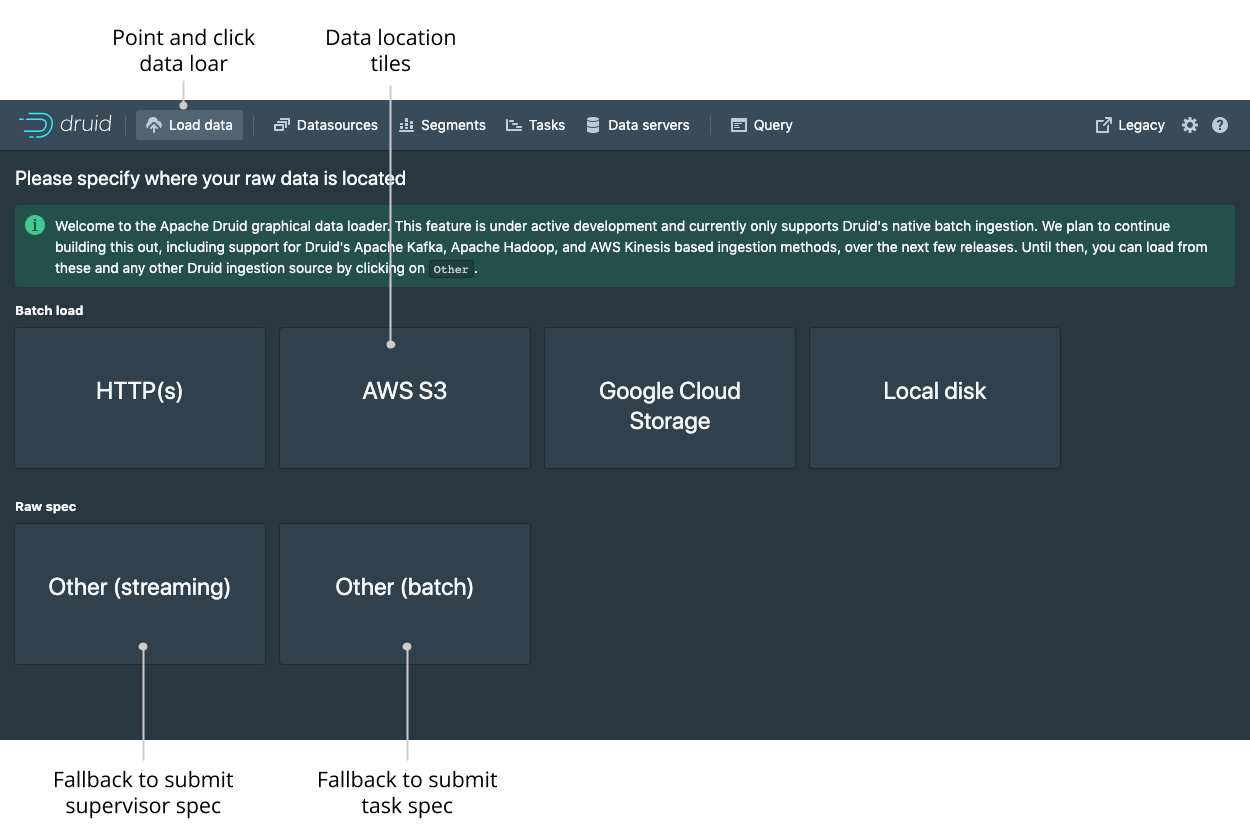
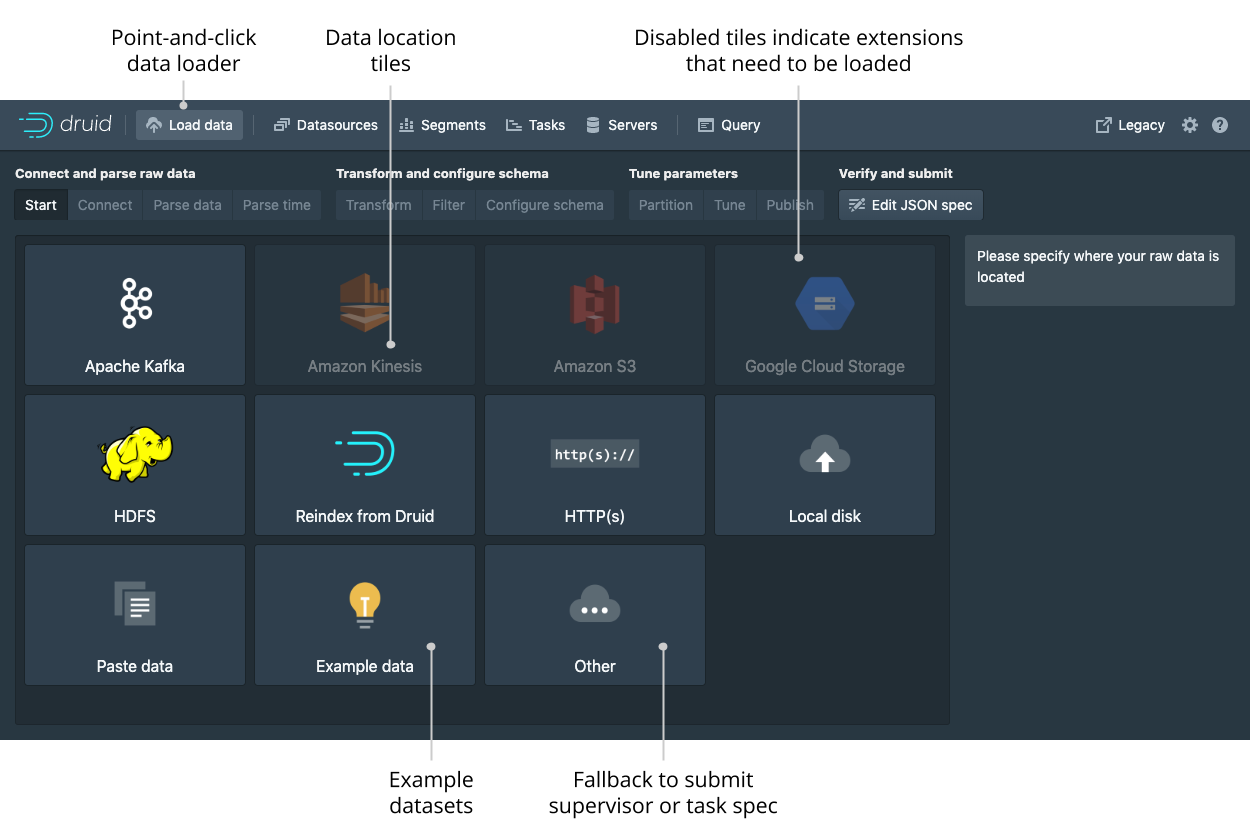
Web console: Update web console docs for 0.16.0 (#8530)
* Update webconsole docs

* home view

* fix annotation typo

diff --git a/web-console/src/utils/ingestion-spec.tsx b/web-console/src/utils/ingestion-spec.tsx
@@ -1561,7 +1561,6 @@ export function getPartitionRelatedTuningSpecFormFields(
           type: 'boolean',
           info: (
             <>
-              <p>Does not currently work with parallel ingestion</p>
               <p>
                 Forces guaranteeing the perfect rollup. The perfect rollup optimizes the total size
                 of generated segments and querying time while indexing time will be increased. If

diff --git a/docs/operations/druid-console.md b/docs/operations/druid-console.md
@@ -40,7 +40,9 @@ Below is a description of the high-level features and functionality of the Druid
 
 ## Home
 
-The home view provides a high level overview of the cluster. Each card is clickable and links to the appropriate view. The legacy menu allows you to go to the [legacy coordinator and overlord consoles](./management-uis.html#legacy-consoles) should you need them.
+The home view provides a high level overview of the cluster.
+Each card is clickable and links to the appropriate view.
+The legacy menu allows you to go to the [legacy coordinator and overlord consoles](./management-uis.html#legacy-consoles) should you need them.
 
 ![home-view](../assets/web-console-01-home-view.png)
 
@@ -50,7 +52,7 @@ The data loader view allows you to load data by building an ingestion spec with 
 
 ![data-loader-1](../assets/web-console-02-data-loader-1.png)
 
-After picking the source of your data just follow the series for steps that will show you incremental previews of the data as it will be ingested.
+After selecting the location of your data just follow the series for steps that will show you incremental previews of the data as it will be ingested.
 After filling in the required details on every step you can navigate to the next step by clicking the `Next` button.
 You can also freely navigate between the steps from the top navigation.
 
@@ -60,8 +62,10 @@ Navigating with the top navigation will leave the underlying spec unmodified whi
 
 ## Datasources
 
-The datasources view shows all the currently enabled datasources. From this view you can see the sizes and availability of the different datasources. You can edit the retention rules and drop data (as well as issue kill tasks).
-Like any view that is powered by a DruidSQL query you can click “Go to SQL” to run the underlying SQL query directly.
+The datasources view shows all the currently enabled datasources.
+From this view you can see the sizes and availability of the different datasources.
+You can edit the retention rules, configure automatic compaction, and drop data.
+Like any view that is powered by a DruidSQL query you can click `View SQL query for table` from the `...` menu to run the underlying SQL query directly.
 
 ![datasources](../assets/web-console-04-datasources.png)
 
@@ -71,20 +75,23 @@ You can view and edit retention rules to determine the general availability of a
 
 ## Segments
 
-The segment view shows every single segment in the cluster. Each segment can be expanded to provide more information. The Segment ID is also conveniently broken down into Datasource, Start, End, Version, and Partition columns for ease of filtering and sorting.
+The segment view shows all the segments in the cluster.
+Each segment can be has a detail view that provides more information.
+The Segment ID is also conveniently broken down into Datasource, Start, End, Version, and Partition columns for ease of filtering and sorting.
 
 ![segments](../assets/web-console-06-segments.png)
 
 ## Tasks and supervisors
 
-The task view is also the home of supervisors. From this view you can check the status of existing supervisors as well as suspend and resume them. You can also submit new supervisors by entering their JSON spec.
+From this view you can check the status of existing supervisors as well as suspend, resume, and reset them.
+The tasks table allows you see the currently running and recently completed tasks.
+To make managing a lot of tasks more accessible, you can group the tasks by their `Type`, `Datasource`, or `Status` to make navigation easier.
 
 ![supervisors](../assets/web-console-07-supervisors.png)
 
-The tasks table allows you see the currently running and recently completed tasks. From this table you can monitor individual tasks and also submit new tasks by entering their JSON spec.
-To make managing a lot of tasks more accessible, you can group the tasks by their type, datasource, or status to make navigation easier.
+Click on the magnifying glass for any supervisor to see detailed reports of its progress.
 
-![tasks](../assets/web-console-08-tasks.png)
+![supervisor-status](../assets/web-console-08-supervisor-status.png)
 
 Click on the magnifying glass for any task to see more detail about it.
 
@@ -92,13 +99,15 @@ Click on the magnifying glass for any task to see more detail about it.
 
 ## Servers
 
-The data servers tab lets you see the current status of the historical nodes and MiddleManager (indexer) processes. Note that currently only historical nodes that are actively serving segments will be shown in this view.
+The servers tab lets you see the current status of the nodes making up your cluster.
+You can group the nodes by type or by tier to get meaningful summary statistics. 
 
 ![servers](../assets/web-console-10-servers.png)
 
 ## Query
 
-The query view lets you issue [DruidSQL](../querying/sql.md) queries and display the results as a simple table.
+The query view lets you issue [DruidSQL](../querying/sql.md) queries and display the results as a table.
+The view will attempt to infer your query and let you modify via contextual actions such as adding filters and changing the sort order when possible.
 
 ![query-sql](../assets/web-console-11-query-sql.png)
 

diff --git a/CONTRIBUTING.md b/CONTRIBUTING.md
@@ -51,7 +51,7 @@ You can find more developers' resources in [`dev/`](dev) directory.
 1. Clone your fork of the GitHub repository
 
     ```sh
-    git clone git@github.com:<username>/druid.git
+    git clone git@github.com:<username>/incubator-druid.git
     ```
 
     replace `<username>` with your GitHub username.
@@ -100,7 +100,7 @@ You can find more developers' resources in [`dev/`](dev) directory.
     Go to your Druid fork main page
 
     ```
-    https://github.com/<username>/druid
+    https://github.com/<username>/incubator-druid
     ```
 
     If you recently pushed your changes GitHub will automatically pop up a

diff --git a/README.md b/README.md
@@ -58,7 +58,7 @@ Some committers and users are present in the channel `#druid` on the Apache Slac
 
 Please note that JDK 8 is required to build Druid.
 
-For instructions on building Druid from source, see [docs/content/development/build.md](docs/content/development/build.md)
+For instructions on building Druid from source, see [docs/development/build.md](docs/development/build.md)
 
 ### Contributing
 
